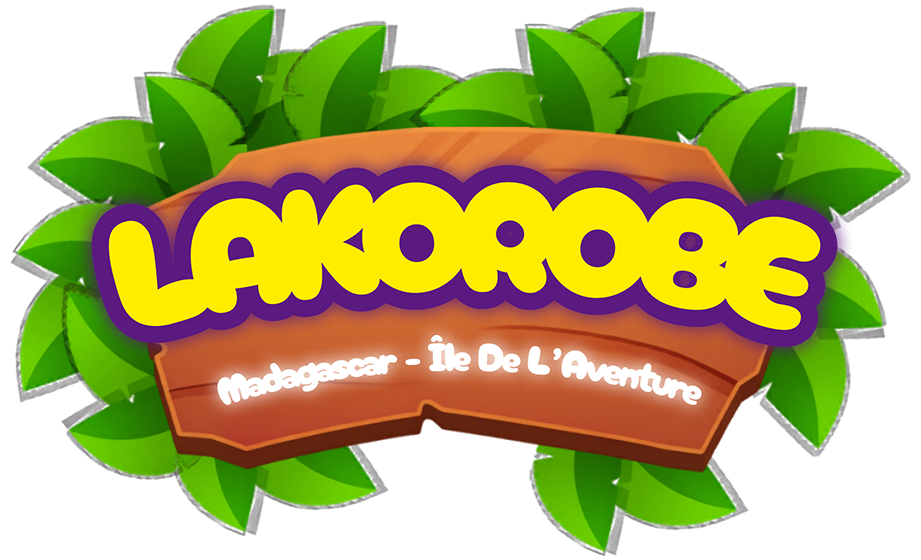
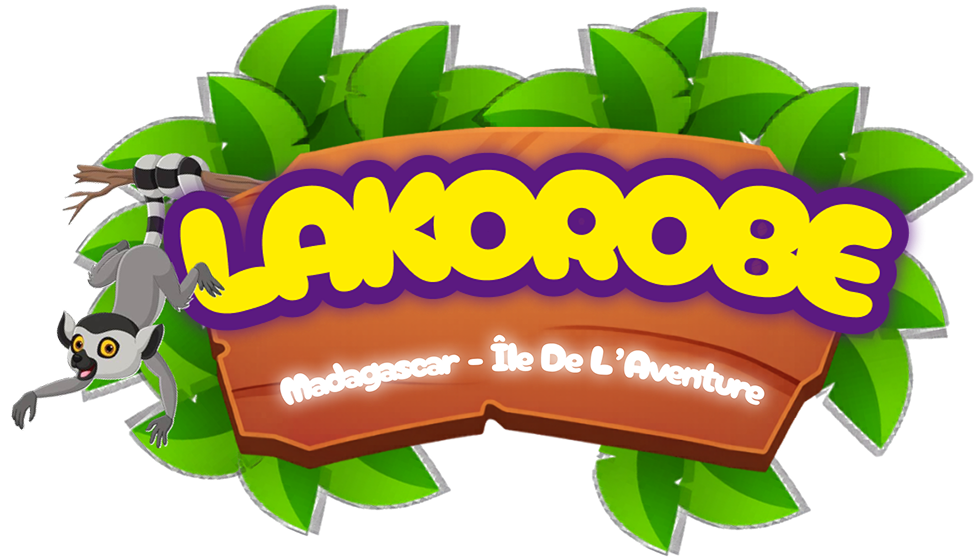
@selestinohajaniaina added home page and tutoriel

diff --git a/scenes/TutorielScene.js b/scenes/TutorielScene.js
@@ -1,0 +1,124 @@
+import { Scene, manager } from "@tialops/maki";
+
+export default class TutorielScene extends Scene {
+  constructor() {
+    super({ key: "TutorielScene" });
+  }
+
+  preload() {
+  }
+
+  create() {
+    this.backgroundBamboo = this.add.sprite(0, 0, "backgroundBamboo");
+    this.backgroundBamboo.setPosition(this.scale.width / 2, this.scale.height / 2);
+    this.backgroundBamboo.setScale(0.45);
+
+    this.showAnimations("bamboo", "litle-bamboo", 20, this.scale.height, 0, 3, 3);
+    this.showAnimations("bararata", "bararata", (2 * this.scale.width / 3) + 60, this.scale.height + 20, 0, 120, 11);
+    this.showAnimations("feuille", "feuille", 0, this.scale.height / 2 - 80, 0, 5, 7);
+
+    this.popupSong = this.sound.add("popupSong", {
+      loop: false,
+    });
+
+    this.startupSong = this.sound.add("startup", {
+      loop: true,
+    });
+
+    this.startupSong.play();
+
+    this.afficherMessage("Bienvenue Champion !\n\nDécouvre Lakorobe, un monde magique inspiré de Madagascar 🇲🇬, où la nature et les animaux vivent en harmonie à travers une grande aventure.", "Suivant >", () => {this.expliquerControles()});
+  }
+
+  expliquerControles() {
+    this.afficherMessage("Voici Lia, ta companion dans cette aventure!\n\nUtilise les flèches directionnelles (↑ ↓ ← →) pour déplacer et maintenir la barre d'espace pour courir.", "J'ai compris", () => {
+     this.scene.start("GameScene");
+    });
+  }
+
+  showAnimations(key, name, x, y, start = 0, end = 44, frameRate = 12) {
+    this.anims.create({
+      key: key,
+      frames: this.anims.generateFrameNumbers(name, {
+        start: start,
+        end: end,
+      }),
+      frameRate: frameRate,
+      repeat: -1,
+    });
+
+    const anim = this.add.sprite(x, y, name);
+    anim.setScale(0.5);
+    anim.setOrigin(0, 1);
+    anim.play(key);
+  }
+
+    afficherMessage(message, boutonText = "OK", callback = null) {
+    this.popupSong.play();
+    this.isMessageDisplayed = true;
+    // Texte
+    const text = this.add
+      .text(400, 260, message, {
+        fontSize: "14px",
+        color: "#222",
+        backgroundColor: "#fff",
+        padding: { left: 20, right: 20, top: 12, bottom: 60 },
+        align: "left",
+        wordWrap: {
+          width: 280,
+        },
+      })
+      .setOrigin(0.5)
+      .setAlpha(0);
+
+    const spacing = -50;
+
+    const button = this.add
+      .text(400, text.y + text.height / 2 + spacing + 20, boutonText, {
+        fontSize: "14px",
+        color: "#fff",
+        backgroundColor: "#4caf50",
+        padding: { x: 20, y: 12 },
+      })
+      .setOrigin(0.5)
+      .setInteractive({ useHandCursor: true })
+      .setAlpha(0);
+
+    // Animation
+    this.tweens.add({
+      targets: [text, button],
+      alpha: 1,
+      y: "-=20",
+      duration: 400,
+      ease: "Power2",
+    });
+
+    // Clique bouton
+    button.on("pointerdown", () => {
+      this.popupSong.play();
+      this.tweens.add({
+        targets: [text, button],
+        alpha: 0,
+        duration: 300,
+        onComplete: () => {
+          text.destroy();
+          button.destroy();
+          this.isMessageDisplayed = false;
+          if (callback) {
+            callback();
+          }
+        },
+      });
+    });
+
+    // Hover
+    button.on("pointerover", () => {
+      button.setBackgroundColor("#5bf860");
+    });
+
+    button.on("pointerout", () => {
+      button.setBackgroundColor("#4caf50");
+    });
+  }
+
+}

diff --git a/scenes/StartupScene.js b/scenes/StartupScene.js
@@ -6,18 +6,48 @@ export default class StartupScene extends Scene {
   }
 
   preload() {
-    // assets si besoin
+    // assets
     this.load.image("lakorobeFond", "assets/lakorobe/lakorobe.png");
+    this.load.image("backgroundBamboo", "assets/lakorobe/backgroundBamboo.png");
     this.load.audio("popupSong", "assets/song/popup.mp3");
     this.load.audio("startup", "assets/song/startup.mp3");
+
+    this.load.spritesheet("maki-3", "assets/lakorobe/maki-3.png", {
+      frameWidth: 480,
+      frameHeight: 469,
+    });
+
+    this.load.spritesheet("litle-bamboo", "assets/lakorobe/litle-bamboo.png", {
+      frameWidth: 335,
+      frameHeight: 480,
+    });
+
+    this.load.spritesheet("bararata", "assets/lakorobe/bararata.png", {
+      frameWidth: 480,
+      frameHeight: 480,
+    });
+
+    this.load.spritesheet("feuille", "assets/lakorobe/feuille.png", {
+      frameWidth: 480,
+      frameHeight: 480,
+    });
 
   }
 
   create() {
+    this.backgroundBamboo = this.add.sprite(0, 0, "backgroundBamboo");
+    this.backgroundBamboo.setPosition(this.scale.width / 2, this.scale.height / 2);
+    this.backgroundBamboo.setScale(0.45);
+
     this.lakorobeFond = this.add
       .image(this.scale.width / 2, 0, "lakorobeFond")
       .setOrigin(0.5, 0);
     this.lakorobeFond.setScale(0.7);
+
+    this.showAnimations("makiblue", "maki-3", this.scale.width / 2, this.scale.height + 40, 0, 44, 12);
+    this.showAnimations("bamboo", "litle-bamboo", 20, this.scale.height, 0, 3, 3);
+    this.showAnimations("bararata", "bararata", (2 * this.scale.width / 3) + 60, this.scale.height + 20, 0, 120, 11);
+    this.showAnimations("feuille", "feuille", 0, this.scale.height / 2 - 80, 0, 5, 7);
 
     this.popupSong = this.sound.add("popupSong", {
       loop: false,
@@ -65,8 +95,25 @@ export default class StartupScene extends Scene {
 
     jouerBtn.on("pointerdown", () => {
       this.popupSong.play();
-      this.scene.start("GameScene");
+      this.scene.start("TutorielScene");
     });
-    
   }
+
+  showAnimations(key, name, x, y, start = 0, end = 44, frameRate = 12) {
+    this.anims.create({
+      key: key,
+      frames: this.anims.generateFrameNumbers(name, {
+        start: start,
+        end: end,
+      }),
+      frameRate: frameRate,
+      repeat: -1,
+    });
+
+    const anim = this.add.sprite(x, y, name);
+    anim.setScale(0.5);
+    anim.setOrigin(0, 1);
+    anim.play(key);
+  }
+
 }

diff --git a/scenes/GameScene.js b/scenes/GameScene.js
@@ -64,7 +64,7 @@ export default class GameScene extends Scene {
 
     // show message to the player to go to the
     this.afficherMessage(
-      `Bienvenue Bob! \nPartons ensemble à collecter les 7 fleurs 🌸 dispersées dans LAKORO, Utilisez les flèches du clavier pour me déplacer!`,
+      `Es-tu prêt, Champion ?\n\nPartons à la collecte des 7 fleurs dispersées dans LAKORO. Travaillons ensemble : tu les cherches et je les ramasse !`,
       "C'est parti!"
     );
 
@@ -78,7 +78,7 @@ export default class GameScene extends Scene {
     }
     if (this.cursors.space.isDown) {
       // espace
-      this.lia.speed = 300;
+      this.lia.speed = 350;
     }
     if (this.cursors.space.isUp) {
       // espace
@@ -209,7 +209,7 @@ export default class GameScene extends Scene {
 
     if (this.flowerCollected === 7) {
       this.afficherMessage(
-        "Félicitations! Vous avez collecté toutes les fleurs! 🌸",
+        "Incroyable !\n\nTu as retrouvé et collecté toutes les fleurs dans LAKORO ! L’aventure est un succès !",
         "Suivant"
       );
     }
@@ -279,4 +279,5 @@ export default class GameScene extends Scene {
       button.setBackgroundColor("#4caf50");
     });
   }
+
 }

diff --git a/game.js b/game.js
@@ -1,6 +1,7 @@
 import Phaser from 'phaser'
 import StartupScene from './scenes/StartupScene.js'
 import GameScene from './scenes/GameScene.js'
+import TutorielScene from './scenes/TutorielScene.js'
 
 new Phaser.Game({
     type: Phaser.AUTO,
@@ -11,5 +12,5 @@ new Phaser.Game({
         default: 'arcade',
         arcade: { debug: false }
     },
-    scene: [StartupScene, GameScene]
+    scene: [StartupScene, TutorielScene, GameScene]
 })

diff --git a/scenes/CultuveScene.js b/scenes/CultuveScene.js
@@ -1,0 +1,14 @@
+import { Scene } from "@tialops/maki";
+
+export default class CultiveScene extends Scene {
+  constructor() {
+    super({ key: "CultiveScene" });
+  }
+
+  preload() {}
+
+  create() {}
+
+  update() {}
+  
+}
